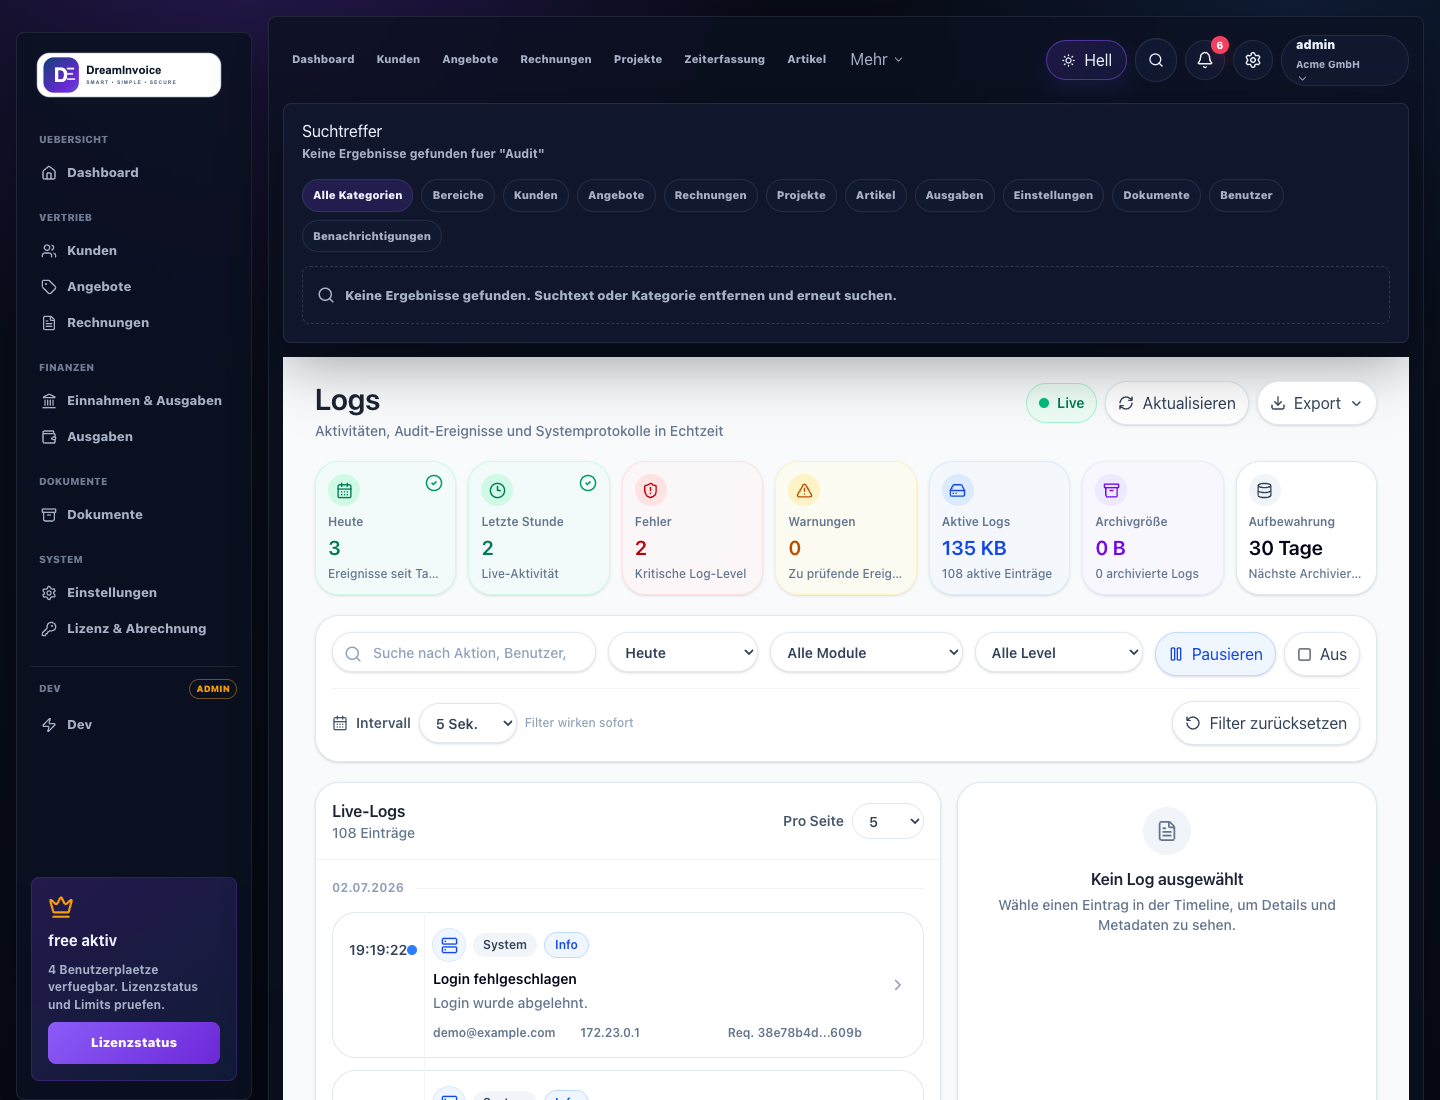
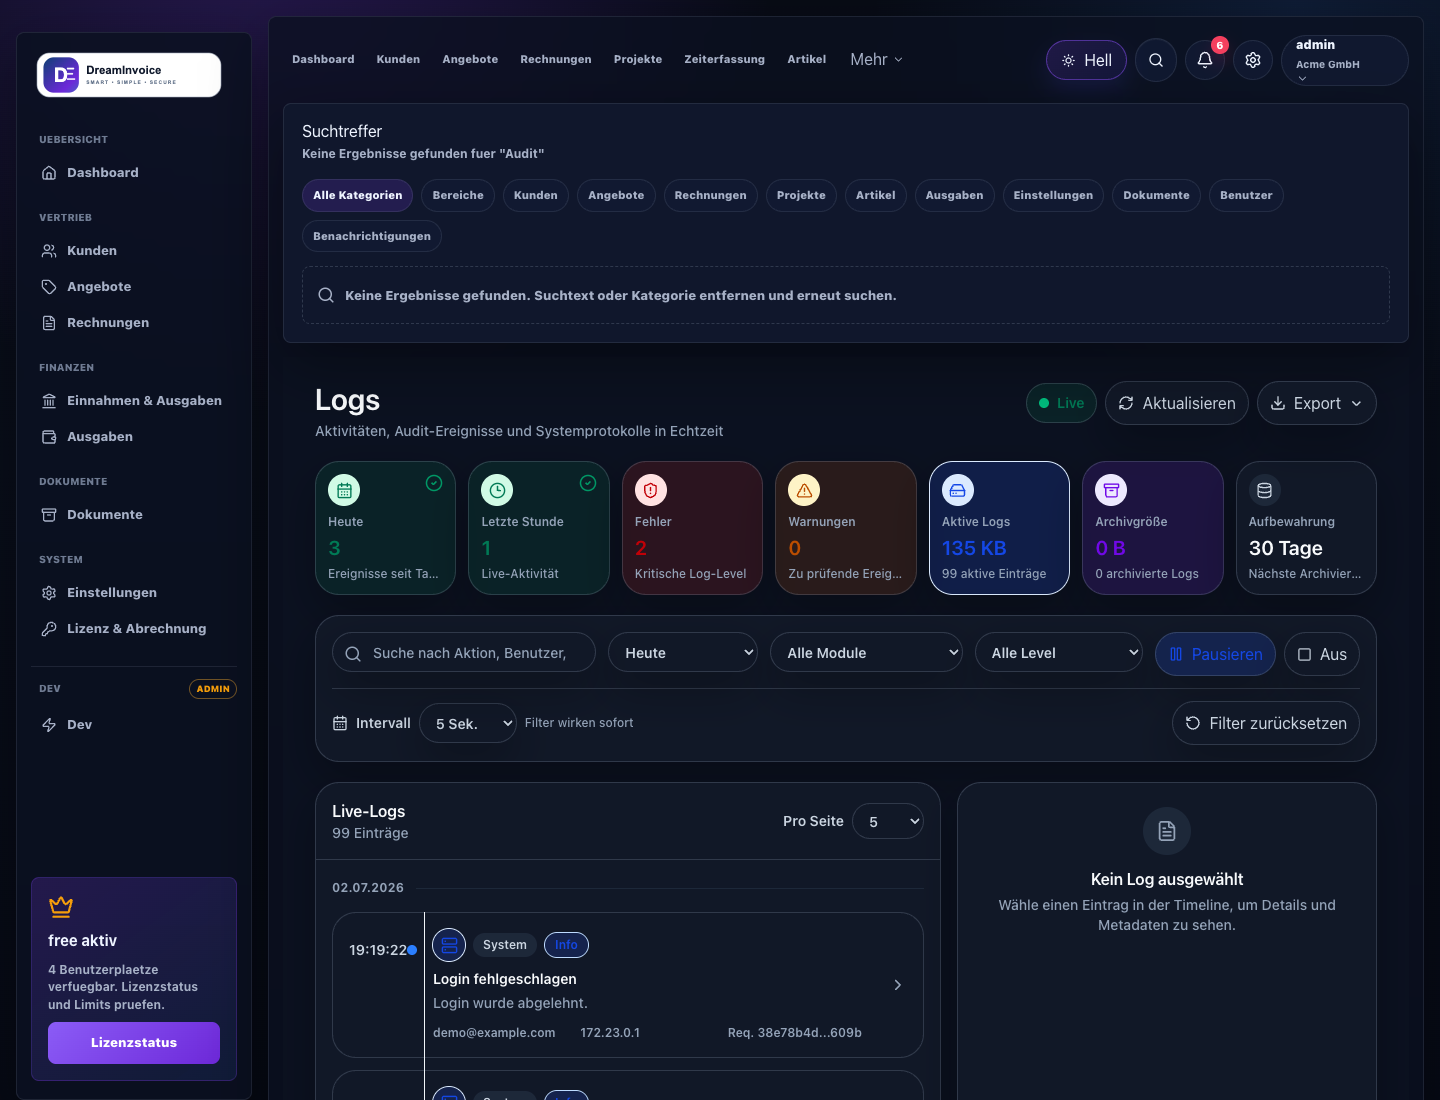
feat(ui): improve reports and logs dark mode and refresh README screenshots

diff --git a/apps/web/src/components/logs/LogsPage.module.css b/apps/web/src/components/logs/LogsPage.module.css
@@ -1,0 +1,86 @@
+.darkLogs {
+  background: #0b1120 !important;
+  color: #e5edf8 !important;
+}
+
+.darkLogs :global(.bg-white),
+.darkLogs :global(.bg-white\/95),
+.darkLogs :global(.bg-slate-50),
+.darkLogs :global(.bg-slate-50\/50),
+.darkLogs :global(.bg-slate-50\/60) {
+  background: #111827 !important;
+}
+
+.darkLogs :global(.bg-slate-100),
+.darkLogs :global(.bg-blue-50\/70) {
+  background: rgba(30, 41, 59, 0.92) !important;
+}
+
+.darkLogs :global(.bg-emerald-50),
+.darkLogs :global(.bg-emerald-50\/45) {
+  background: rgba(6, 78, 59, 0.28) !important;
+}
+
+.darkLogs :global(.bg-red-50),
+.darkLogs :global(.bg-red-50\/55) {
+  background: rgba(127, 29, 29, 0.28) !important;
+}
+
+.darkLogs :global(.bg-amber-50),
+.darkLogs :global(.bg-amber-50\/60) {
+  background: rgba(120, 53, 15, 0.28) !important;
+}
+
+.darkLogs :global(.bg-blue-50),
+.darkLogs :global(.bg-blue-50\/45) {
+  background: rgba(30, 64, 175, 0.28) !important;
+}
+
+.darkLogs :global(.bg-violet-50),
+.darkLogs :global(.bg-violet-50\/45) {
+  background: rgba(76, 29, 149, 0.28) !important;
+}
+
+.darkLogs :global(.border-slate-100),
+.darkLogs :global(.border-slate-200),
+.darkLogs :global(.border-blue-200),
+.darkLogs :global(.border-blue-300),
+.darkLogs :global(.border-emerald-100),
+.darkLogs :global(.border-emerald-200),
+.darkLogs :global(.border-red-100),
+.darkLogs :global(.border-red-200),
+.darkLogs :global(.border-amber-100),
+.darkLogs :global(.border-violet-100) {
+  border-color: rgba(148, 163, 184, 0.24) !important;
+}
+
+.darkLogs :global(.text-slate-950),
+.darkLogs :global(.text-slate-900),
+.darkLogs :global(.text-slate-800) {
+  color: #f8fafc !important;
+}
+
+.darkLogs :global(.text-slate-700),
+.darkLogs :global(.text-slate-600) {
+  color: #cbd5e1 !important;
+}
+
+.darkLogs :global(.text-slate-500),
+.darkLogs :global(.text-slate-400) {
+  color: #94a3b8 !important;
+}
+
+.darkLogs :global(input::placeholder) {
+  color: #94a3b8 !important;
+}
+
+.darkLogs :global(.shadow-sm),
+.darkLogs :global(.shadow-lg) {
+  box-shadow: 0 18px 44px rgba(0, 0, 0, 0.28) !important;
+}
+
+.darkLogs :global(input),
+.darkLogs :global(select),
+.darkLogs :global(button) {
+  color-scheme: dark;
+}

diff --git a/apps/web/src/app/dashboard-v2/_components/ReportsLogs.module.css b/apps/web/src/app/dashboard-v2/_components/ReportsLogs.module.css
@@ -655,3 +655,85 @@ button.rlChartCard:hover,
     width: fit-content;
   }
 }
+
+
+.darkReports {
+  background: #0b1120;
+  color: #e5edf8;
+}
+
+.darkReports .rlHeader h1,
+.darkReports .rlKpiCard,
+.darkReports .rlChartCard,
+.darkReports .rlReportCard,
+.darkReports .rlReportItem {
+  color: #f8fafc;
+}
+
+.darkReports .rlHeader p,
+.darkReports .reportCalendarGrid label,
+.darkReports .rlLegend li,
+.darkReports .reportSectionHead p,
+.darkReports .rlReportItem small {
+  color: #94a3b8;
+}
+
+.darkReports .rlKpiCard,
+.darkReports .rlChartCard,
+.darkReports .rlReportCard,
+.darkReports .rlReportItem,
+.darkReports .reportCalendar,
+.darkReports .rlBtn {
+  background: #111827;
+  border-color: rgba(148, 163, 184, 0.24);
+  box-shadow: 0 18px 44px rgba(0, 0, 0, 0.28);
+}
+
+.darkReports .rlKpiCard:hover,
+.darkReports .rlChartCard:hover,
+.darkReports .rlReportItem:hover {
+  border-color: rgba(167, 139, 250, 0.72);
+  box-shadow: 0 20px 50px rgba(76, 29, 149, 0.22);
+}
+
+.darkReports .rlBtn,
+.darkReports .reportCalendarGrid input {
+  color: #e5edf8;
+  color-scheme: dark;
+}
+
+.darkReports .reportCalendarGrid input,
+.darkReports .reportCalendarHead button,
+.darkReports .reportQuickRanges button {
+  background: #1e293b;
+  border-color: rgba(148, 163, 184, 0.24);
+}
+
+.darkReports .reportCalendarHead button,
+.darkReports .reportQuickRanges button {
+  color: #c4b5fd;
+}
+
+.darkReports .rlIcon {
+  background: rgba(124, 58, 237, 0.22);
+  color: #c4b5fd;
+}
+
+.darkReports .fakeLineChart {
+  background:
+    linear-gradient(180deg, rgba(124, 58, 237, 0.25), transparent),
+    repeating-linear-gradient(to bottom, rgba(148, 163, 184, 0.16) 0 1px, transparent 1px 42px);
+}
+
+.darkReports .rlBarRow div {
+  background: rgba(148, 163, 184, 0.16);
+}
+
+.darkReports .activeReportItem {
+  background: rgba(124, 58, 237, 0.18);
+  border-color: rgba(167, 139, 250, 0.88);
+}
+
+.darkReports .activeReportItem > b {
+  color: #c4b5fd;
+}

diff --git a/apps/web/src/components/logs/LogsPage.tsx b/apps/web/src/components/logs/LogsPage.tsx
@@ -8,6 +8,7 @@ import { LogDetails } from "./LogDetails"
 import { LogStats } from "./LogStats"
 import { LogTimeline } from "./LogTimeline"
 import { LogToolbar } from "./LogToolbar"
+import styles from "./LogsPage.module.css"
 
 function liveStatus(liveSettings: ReturnType<typeof useLiveLogs>["liveSettings"]) {
   if (!liveSettings.autoRefresh) {
@@ -38,7 +39,7 @@ function exportLabel(format: ExportFormat) {
   return format.toUpperCase()
 }
 
-export function LogsPage() {
+export function LogsPage({ theme = "light" }: { theme?: "dark" | "light" }) {
   const logs = useLiveLogs()
   const status = liveStatus(logs.liveSettings)
   const initialLoading = logs.loading && logs.logs.length === 0
@@ -51,7 +52,7 @@ export function LogsPage() {
   ]
 
   return (
-    <main className="min-h-screen max-w-full overflow-x-hidden bg-slate-50 px-4 py-6 text-slate-950 sm:px-6 lg:px-8">
+    <main className={`min-h-screen max-w-full overflow-x-hidden bg-slate-50 px-4 py-6 text-slate-950 sm:px-6 lg:px-8 ${theme === "dark" ? styles.darkLogs : ""}`}>
       <div className="mx-auto flex w-full max-w-full flex-col gap-5 2xl:max-w-[1720px]">
         <header className="flex flex-col gap-4 lg:flex-row lg:items-start lg:justify-between">
           <div>

diff --git a/apps/web/src/app/dashboard-v2/_components/ReportsPageClient.tsx b/apps/web/src/app/dashboard-v2/_components/ReportsPageClient.tsx
@@ -33,7 +33,7 @@ function toCsv(rows: Array<Record<string, string>>) {
   return [headers.join(";"), ...values].join("\n")
 }
 
-export function ReportsPageClient() {
+export function ReportsPageClient({ theme = "light" }: { theme?: "dark" | "light" }) {
   const [dateFrom, setDateFrom] = useState("2026-06-01")
   const [dateTo, setDateTo] = useState("2026-06-26")
   const [calendarOpen, setCalendarOpen] = useState(false)
@@ -69,7 +69,7 @@ export function ReportsPageClient() {
   }
 
   return (
-    <div className={styles.rlPage}>
+    <div className={`${styles.rlPage} ${theme === "dark" ? styles.darkReports : ""}`}>
       <div className={styles.rlHeader}>
         <div>
           <h1>Berichte</h1>

diff --git a/apps/web/src/app/dashboard-v2/PremiumWorkspace.tsx b/apps/web/src/app/dashboard-v2/PremiumWorkspace.tsx
@@ -9740,7 +9740,7 @@ function PremiumModulePage({
   }
 
   if (view === "reports") {
-    return <ReportsPageClient />
+    return <ReportsPageClient theme={mode} />
   }
 
   if (view === "license-billing") {
@@ -9753,7 +9753,7 @@ function PremiumModulePage({
   }
 
   if (view === "logs") {
-    return <LogsPage />
+    return <LogsPage theme={mode} />
   }
 
   return (

diff --git a/README.md b/README.md
@@ -32,31 +32,24 @@ Live Demo: [demo.dream-invoice.com](http://demo.dream-invoice.com)
 
 All demo data is fictional. Changes are simulated and are not saved permanently.
 
-![DreamInvoice dashboard](docs/assets/screenshots/dashboard.jpg)
-
-![DreamInvoice documents](docs/assets/screenshots/documents.jpg)
-
-![DreamInvoice articles](docs/assets/screenshots/articles.jpg)
 
 ## Premium Edition Screenshots
 
-The Premium Edition extends the main DreamInvoice workspace with licensing, marketplace, security, audit, and administration views.
+| Dashboard | Lizenz & Abrechnung |
+|---|---|
+| ![Dashboard](docs/screenshots/premium/dashboard-v2.png) | ![License](docs/screenshots/premium/license-billing.png) |
 
-![DreamInvoice Premium dashboard](docs/screenshots/premium/dashboard-v2.png)
+| Marketplace | Audit Logs |
+|---|---|
+| ![Marketplace](docs/screenshots/premium/marketplace.png) | ![Audit Logs](docs/screenshots/premium/audit-logs.png) |
 
-![DreamInvoice License billing](docs/screenshots/premium/license-billing.png)
+| Benutzer & Rechte | Sicherheit |
+|---|---|
+| ![Users](docs/screenshots/premium/users-permissions.png) | ![Security](docs/screenshots/premium/security.png) |
 
-![DreamInvoice Marketplace](docs/screenshots/premium/marketplace.png)
-
-![DreamInvoice Audit logs](docs/screenshots/premium/audit-logs.png)
-
-![DreamInvoice Users and permissions](docs/screenshots/premium/users-permissions.png)
-
-![DreamInvoice Settings](docs/screenshots/premium/settings.png)
-
-![DreamInvoice Security](docs/screenshots/premium/security.png)
-
-![DreamInvoice Logs](docs/screenshots/premium/logs.png)
+| Einstellungen | Logs |
+|---|---|
+| ![Settings](docs/screenshots/premium/settings.png) | ![Logs](docs/screenshots/premium/logs.png) |
 
 ## Features
 
